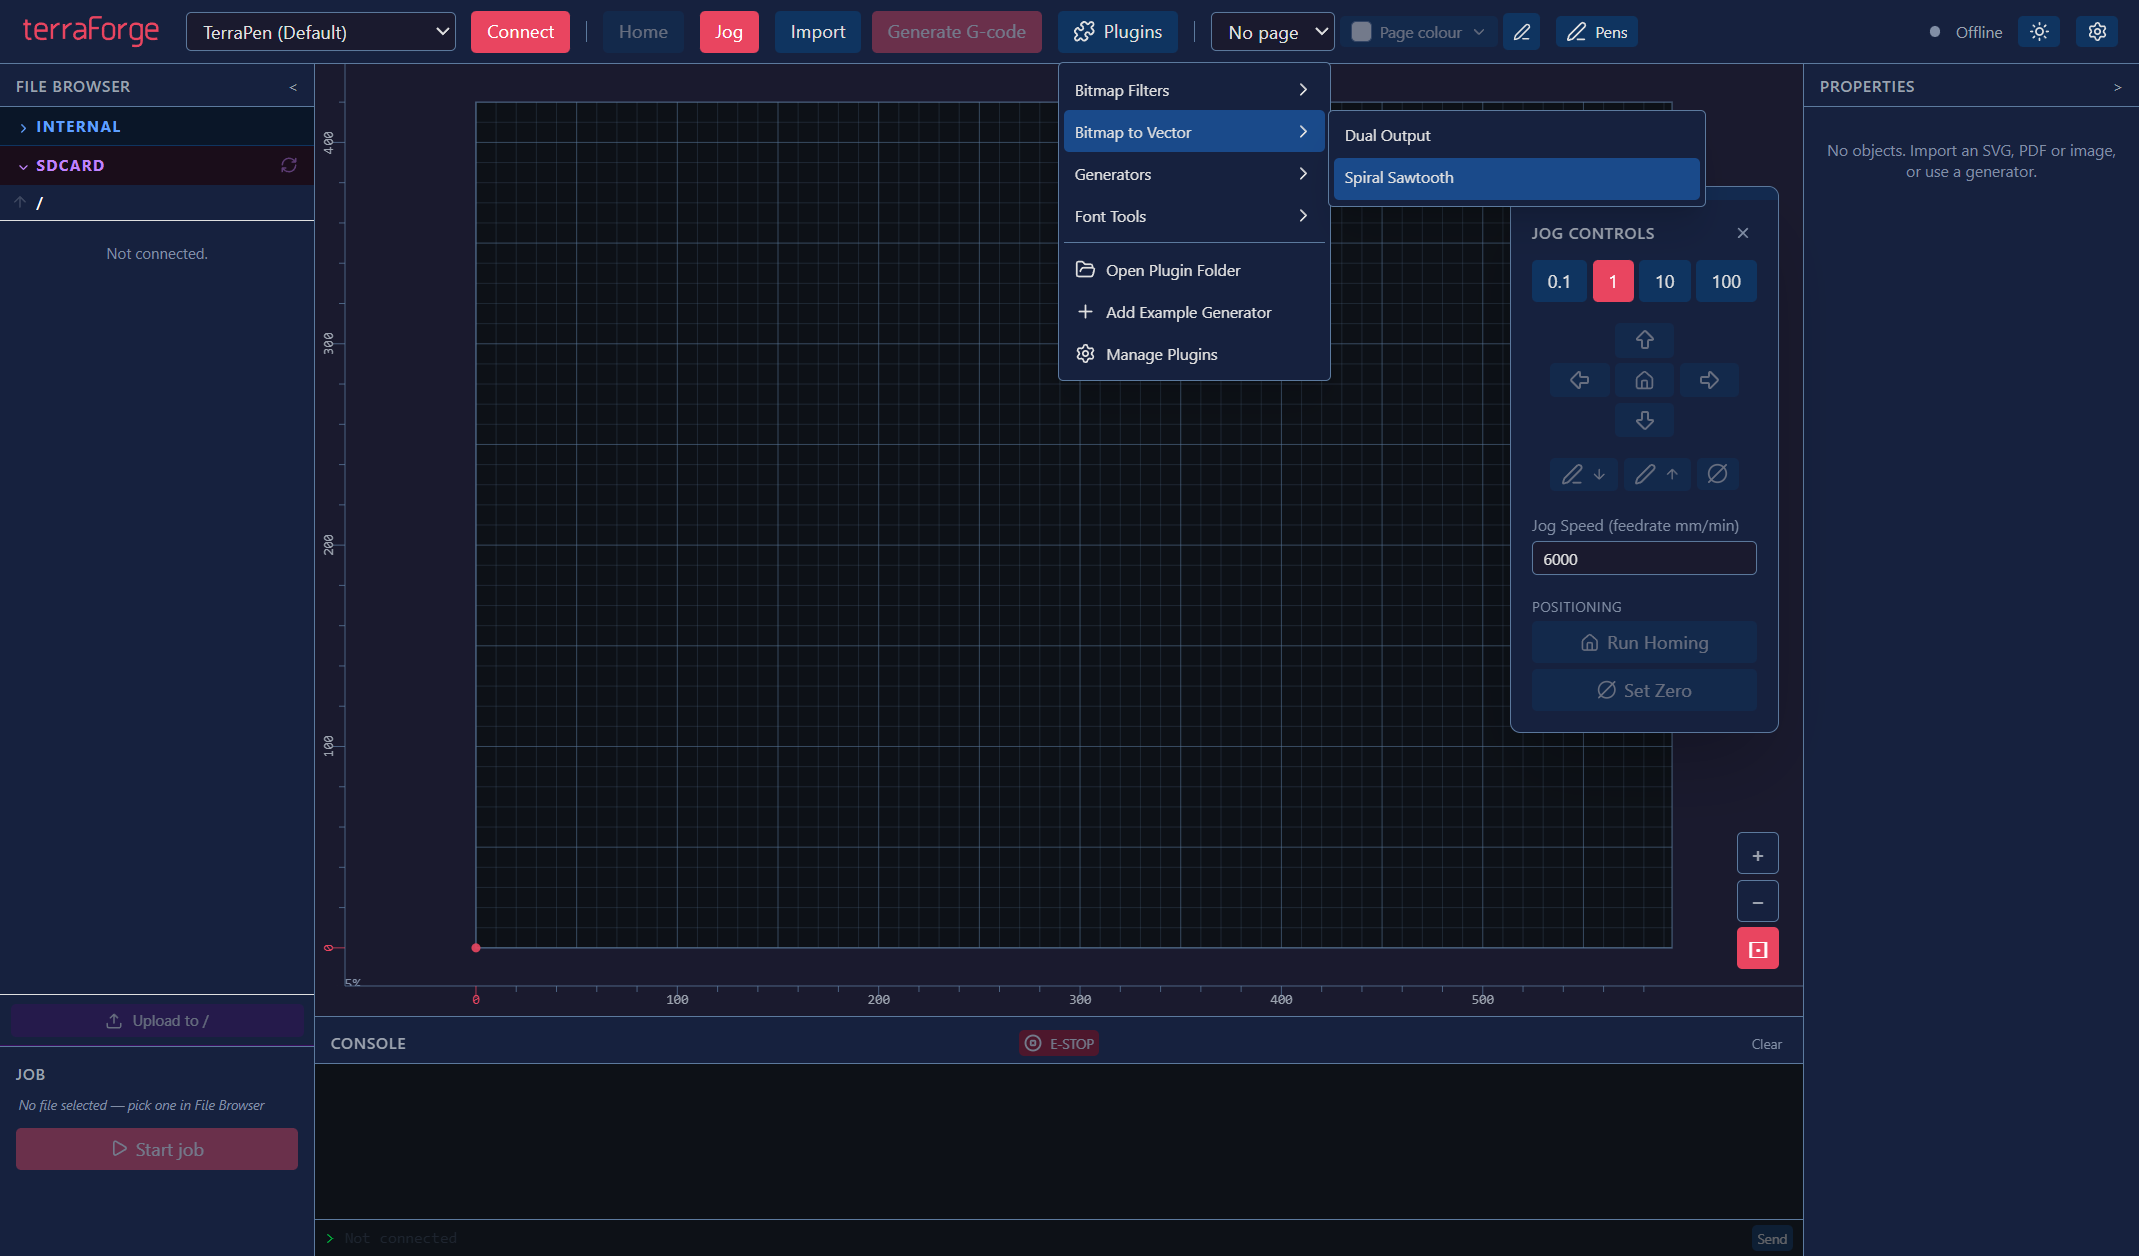
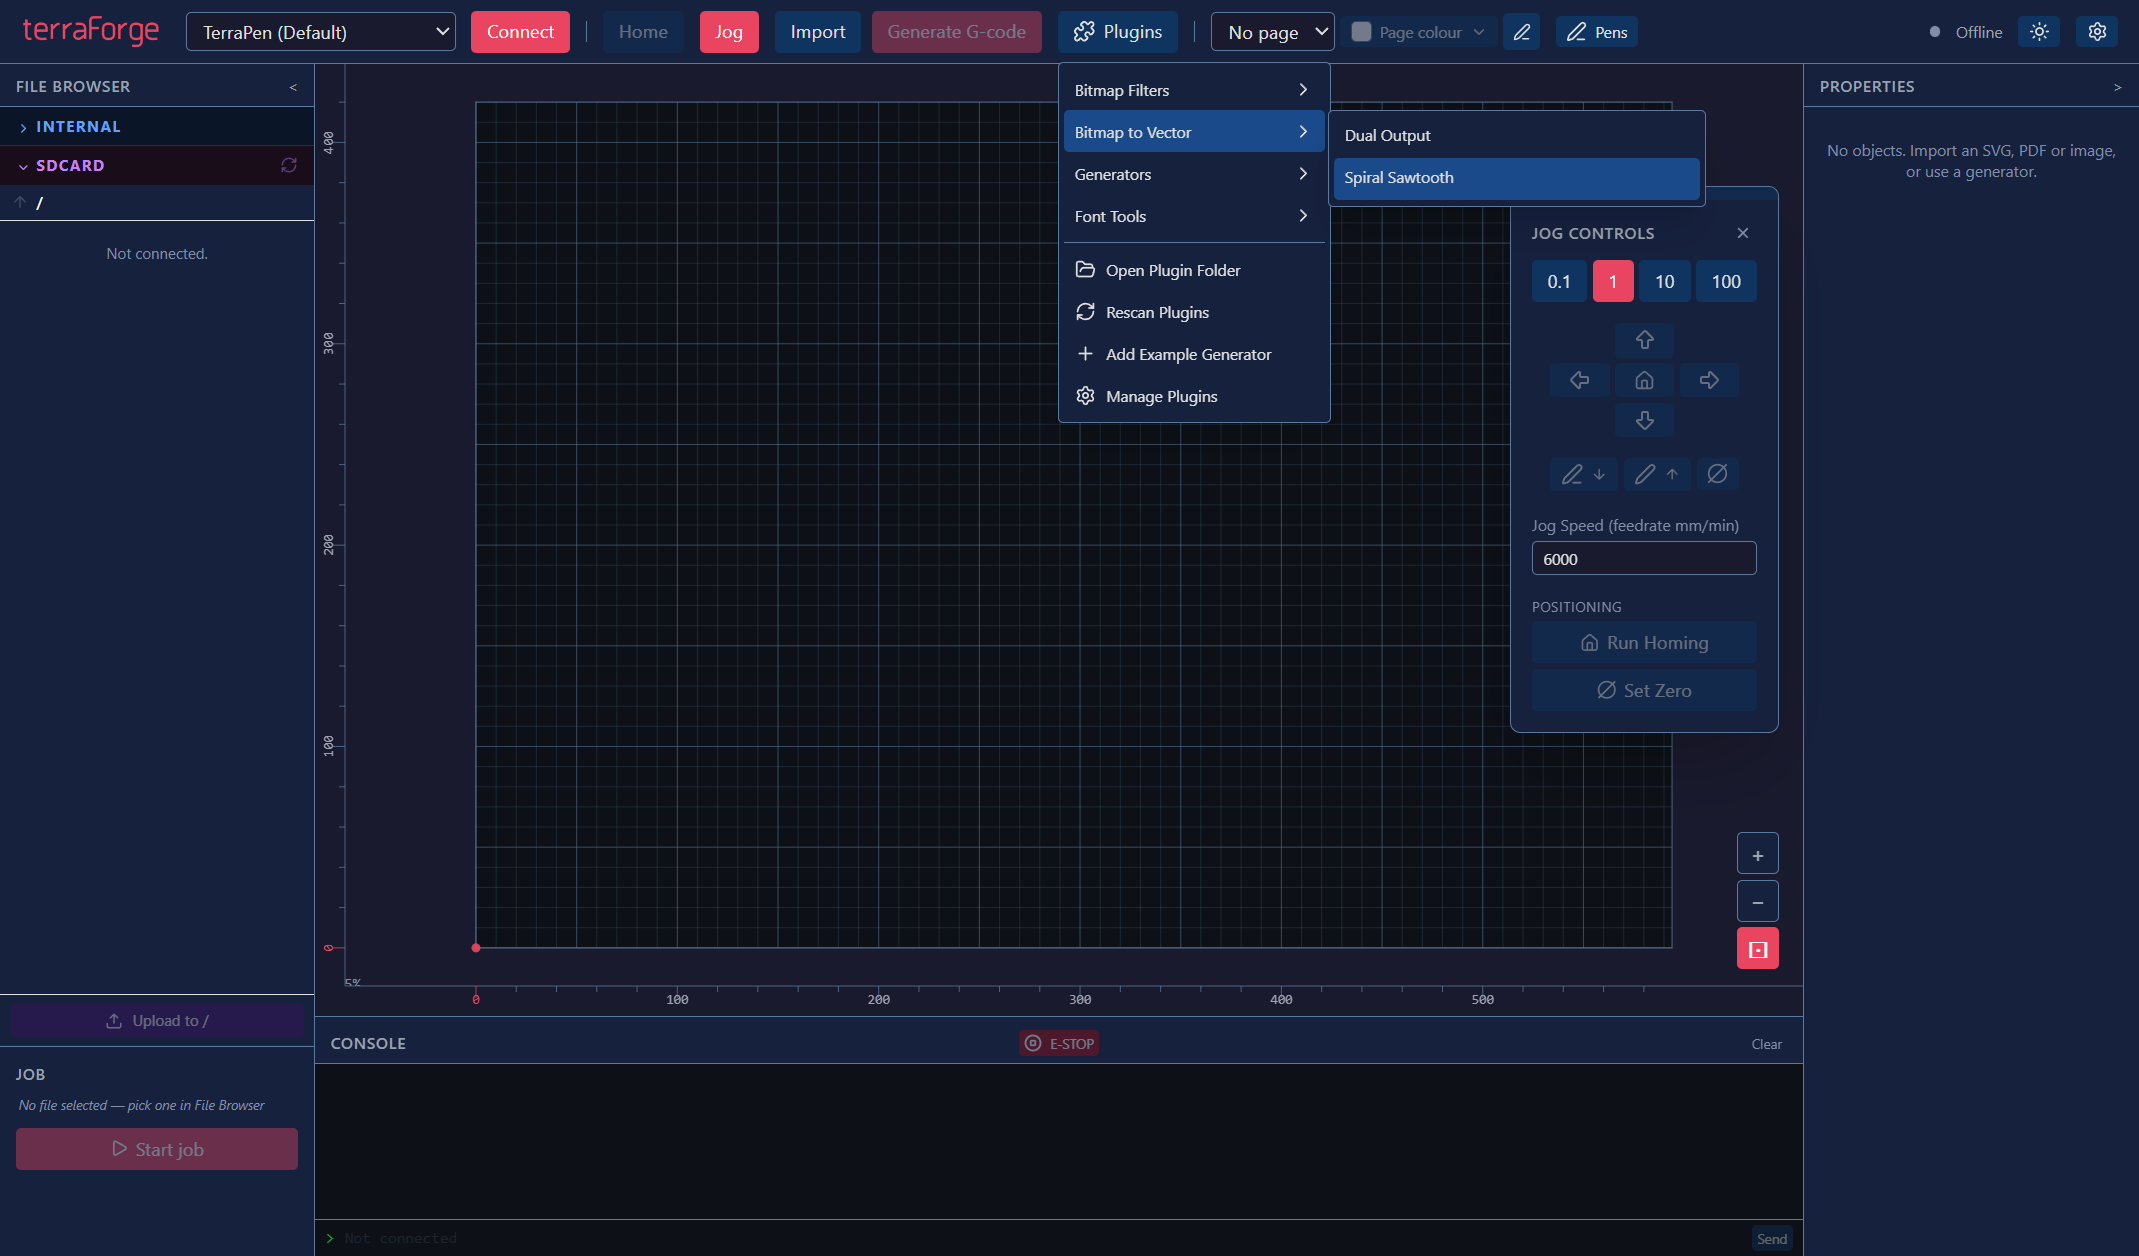
Record plugin integration verification and refresh Rescan menu screenshots

Changed region(s): [[0.4937, 0.2484, 0.648, 0.3416]]

diff --git a/docs/plugin-integration-delivery.md b/docs/plugin-integration-delivery.md
@@ -1,0 +1,57 @@
+# Selective plugin integration delivery
+
+Verified 29 October 2026 (New Zealand), in `C:\Users\rmars\source\TerraForge`.
+The final working branch is `codex/plugin-renderer-conversion`, containing all three stages. Existing untracked Spiral Sawtooth files were left untouched. The older OneDrive project was not used.
+
+## Review in GitHub
+
+All changes are committed and published only to `shaboomi/terraForge`. Nothing has been merged.
+
+| Draft | Change | Base |
+| --- | --- | --- |
+| [#11 — Rescan and source fingerprints](https://github.com/shaboomi/terraForge/pull/11) | Metadata-only live discovery; remembered enable choices; active-run/preview invalidation; pinned requests and portable saved code identity | Existing `codex/plot-start-timeout` working branch |
+| [#12 — Shared bitmap preparation](https://github.com/shaboomi/terraForge/pull/12) | Opt-in levels/gamma/contrast/smoothing and colour channels; saved controls; bounded decode/preparation caches; private buffer transfer; Prepared Scanlines example | Stage 1 branch |
+| [#13 — Bounded upstream generator conversion](https://github.com/shaboomi/terraForge/pull/13) | Offline manifest/helper conversion; exact supported line/layer geometry; mandatory Preview → Apply; upstream Spirograph fixture and MIT notices; assessment and delivery notes | Stage 2 branch |
+
+These are stacked reviews: each contains the preceding stages, while its GitHub comparison shows only that stage's changes. Open the links in order to read the work. No action is needed immediately; leave them as drafts until reviewed. Do not merge later stages ahead of their prerequisites.
+
+The original checkout already contained unmerged [CMYK PR #10](https://github.com/shaboomi/terraForge/pull/10) and the subsequent local plot-start timeout fix. Its existing `codex/plot-start-timeout` branch was published unchanged as the Stage 1 base so unrelated machine/CMYK changes do not appear in the plugin review. Integrating the stages into `main` later requires deciding how to land those existing prerequisites and then updating review bases. No upstream merge is proposed.
+
+## What remains compatible
+
+Existing `.tf-plugin.js` files require no changes. Categories, cascading menus, Font Tools, Properties, generator actions and manual processor Preview → Apply remain available. Shared preparation appears only for a plugin declaring `bitmapPreparation: true`; CMYK Circles and Spiral Sawtooth keep their original algorithms.
+
+Results retain the source, complete local frame, rotation, independent scaling, margins, seed, saved parameters, result-group identities, real-pen assignments and explicit plotting order. CMYK Black-last and Extended A2 export were exercised. Whole-result apply/update/undo remains atomic. Opening a layout never runs a plugin; missing-plugin artwork remains portable and usable. A changed source fingerprint is explained before explicit regeneration, and older layouts without a fingerprint remain compatible with an unverifiable-code notice.
+
+## Verification
+
+- **2,265 unit/component tests passed across 182 files** on the final code. The suite covers native legacy plugins, complete input/result validation, preparation and exact cache invalidation, cancellation, malformed files, real pen ordering, layout round-trips, source alignment and atomic history.
+- TypeScript checks and the production build passed. New/changed focused test files and converter/preparation modules passed ESLint. Existing plugin orchestration functions retain complexity/function-size warnings; there were no lint errors in the targeted production check. Whitespace checks passed.
+- **31 unique Windows desktop scenarios passed across the regression and final focused runs.** They include four CMYK workflows (including Black-last and A2 Extended export), two actual Spiral workflows, five native processor workflows, nine generator/security/lifecycle workflows, three menu workflows, page/pen colours, white-pen plotting, three Rescan workflows, two preparation workflows and one converted Spirograph workflow.
+- The 30-case broad desktop run passed 29 cases and hit one menu-selection timeout in the existing saved-generator editing case. That case passed when rerun alone on the final build. All six newly added desktop scenarios then passed together on the final build. This records the timing failure rather than treating the broad run as an uninterrupted pass.
+- Real desktop preparation checks verified that repeated Preview decodes once, preparation changes invalidate previews, original RGBA/alpha cross the worker boundary, result frames retain transforms, prepared settings survive save/restart/reopen, and no real pens are inferred from channel colours. Converted Spirograph preserved labels/colours, mandatory Preview, whole-result undo and portable geometry after removal of its plugin.
+- Desktop checks verified disposable profile paths. The app remained disconnected; no physical plotter was operated. The preparation controls/preview and refreshed menu screenshots were visually inspected.
+
+This verification covers the Windows development desktop build. This integration was not repackaged into an installer; macOS, Linux and installation/upgrade behaviour were not newly exercised. Existing packaging restrictions and fresh sandboxed per-run runtimes remain in place.
+
+Reproduce the main checks from this working folder:
+
+```powershell
+npm.cmd run typecheck
+npm.cmd test
+npm.cmd run build
+node node_modules/@playwright/test/cli.js test --config=tests/e2e/playwright.config.ts tests/e2e/plugin-rescan.spec.ts tests/e2e/plugin-bitmap-preparation.spec.ts tests/e2e/renderer-plugin-conversion.spec.ts
+node --experimental-strip-types scripts/plugin-bitmap-benchmark.mts
+```
+
+When a managed Windows temporary directory prevents test-cache renames, set `TEMP` and `TMP` to a writable disposable directory before testing. No production directory setting needs to change.
+
+## Performance and scope
+
+Repeated shared CMYK preparation measured **16.20 → 1.45 ms** at 384² and **59.83 → 5.77 ms** at 768²: **10.4–11.2×** faster for that preparation step. These timings include hashing/private cache copies and do not measure total desktop Preview latency. Existing CMYK/Spiral algorithms were unchanged and showed no demonstrated algorithm speedup. The [preparation guide](plugin-bitmap-preparation.md) records baseline/final measurements, exact formulas and memory costs.
+
+Decoded-image retention is bounded to 24 MiB including its encoded string; prepared planes use a 32 MiB cache and a separate 32 MiB per-run plane cap. Keys include actual pixel content, dimensions and every preparation setting/palette entry. Isolated per-run copies and temporary processing buffers consume additional memory. One host-to-worker clone is removed by transferring run-owned buffers; renderer/main/cache buffers remain private.
+
+Fresh runtimes are retained. Runtime reuse was not justified by these preparation/clone measurements and would introduce additional state-cleanup, cancellation and stale-message risks. Full folder-based bitmap renderer compatibility, SVG curves, structured dots/fill/tap semantics, upstream numeric-nudge/icon metadata and calibrated physical colour separation are deferred. The [conversion guide](renderer-plugin-conversion.md) defines the supported source-free generator subset and explicit errors; the [assessment](plugin-upstream-assessment.md) pins the reviewed upstream head and explains these decisions.
+
+To try the new preparation now, use the development build, copy `docs/examples/prepared-scanlines.tf-plugin.js` into the folder opened by Plugins, then choose Rescan Plugins. Import/select an image and choose Bitmap to Vector → Prepared Scanlines. This does not install or replace an application release. Ordinary plugin installation/editing needs no GitHub action.
